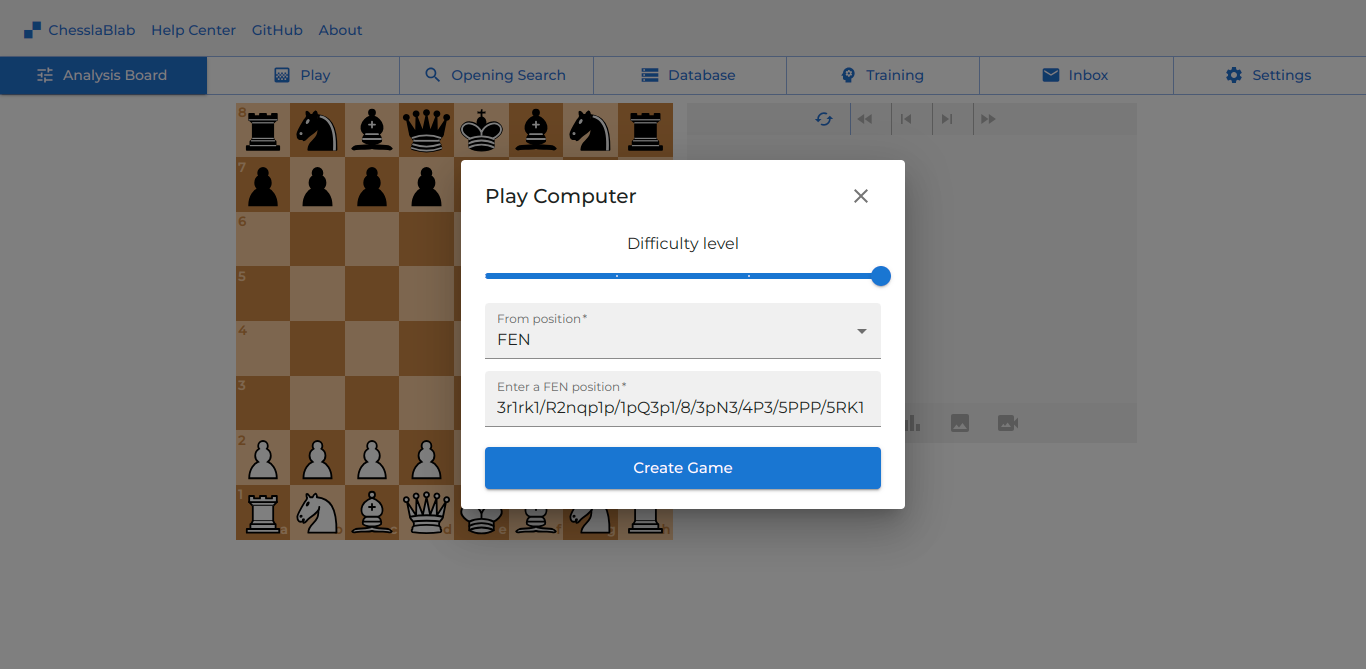
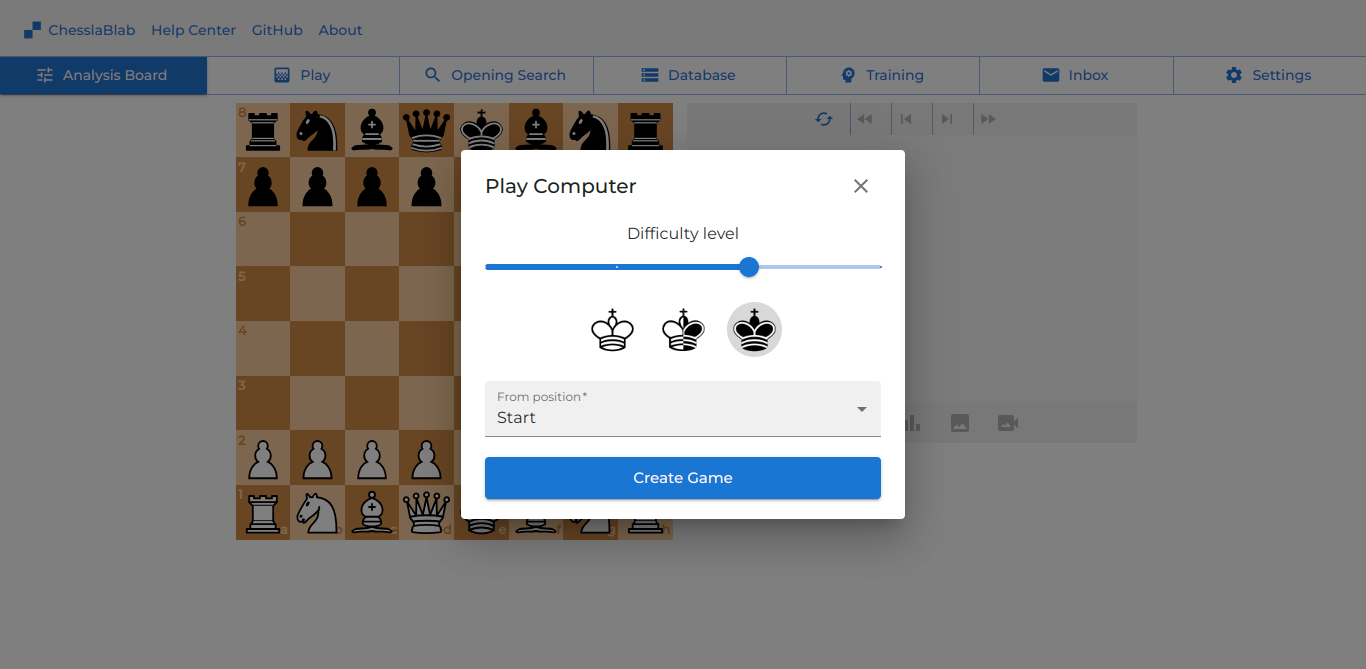
Added question

diff --git a/public/help-center/index.html b/public/help-center/index.html
@@ -40,9 +40,9 @@
           Search for answers in the Frequently Asked Questions.
         </p>
         <details>
-          <summary>How can I play a particular chess position against the computer?</summary>
+          <summary>How can I play chess against the computer?</summary>
           <p>
-            You may want to play a particular chess position against the computer for analysis purposes.
+            Described below is how to play chess against Stockfish, the strongest chess engine available to the public, from the starting position.
           </p>
           <figure>
             <img src="/assets/img/help-center/01_figure_01.png" alt="Figure 1">
@@ -50,10 +50,28 @@
           </figure>
           <figure>
             <img src="/assets/img/help-center/01_figure_02.png" alt="Figure 2">
-            <figcaption><b>Figure 2</b>. Set a difficulty level and enter a chess position in FEN format.</figcaption>
+            <figcaption><b>Figure 2</b>. Set a difficulty level as well as a color.</figcaption>
           </figure>
           <figure>
             <img src="/assets/img/help-center/01_figure_03.png" alt="Figure 3">
+            <figcaption><b>Figure 3</b>. Click on <b>Create Game</b> and make chess moves.</figcaption>
+          </figure>
+        </details>
+        <details>
+          <summary>How can I play a particular position against the computer?</summary>
+          <p>
+            Also for analysis purposes you may want to play a particular chess position against the computer as opposed to the starting position.
+          </p>
+          <figure>
+            <img src="/assets/img/help-center/02_figure_01.png" alt="Figure 1">
+            <figcaption><b>Figure 1</b>. Click on <b>Play > Play Computer</b></figcaption>
+          </figure>
+          <figure>
+            <img src="/assets/img/help-center/02_figure_02.png" alt="Figure 2">
+            <figcaption><b>Figure 2</b>. Set a difficulty level and enter the position you want to analyze in FEN format.</figcaption>
+          </figure>
+          <figure>
+            <img src="/assets/img/help-center/02_figure_03.png" alt="Figure 3">
             <figcaption><b>Figure 3</b>. Click on <b>Create Game</b> and make chess moves.</figcaption>
           </figure>
         </details>
